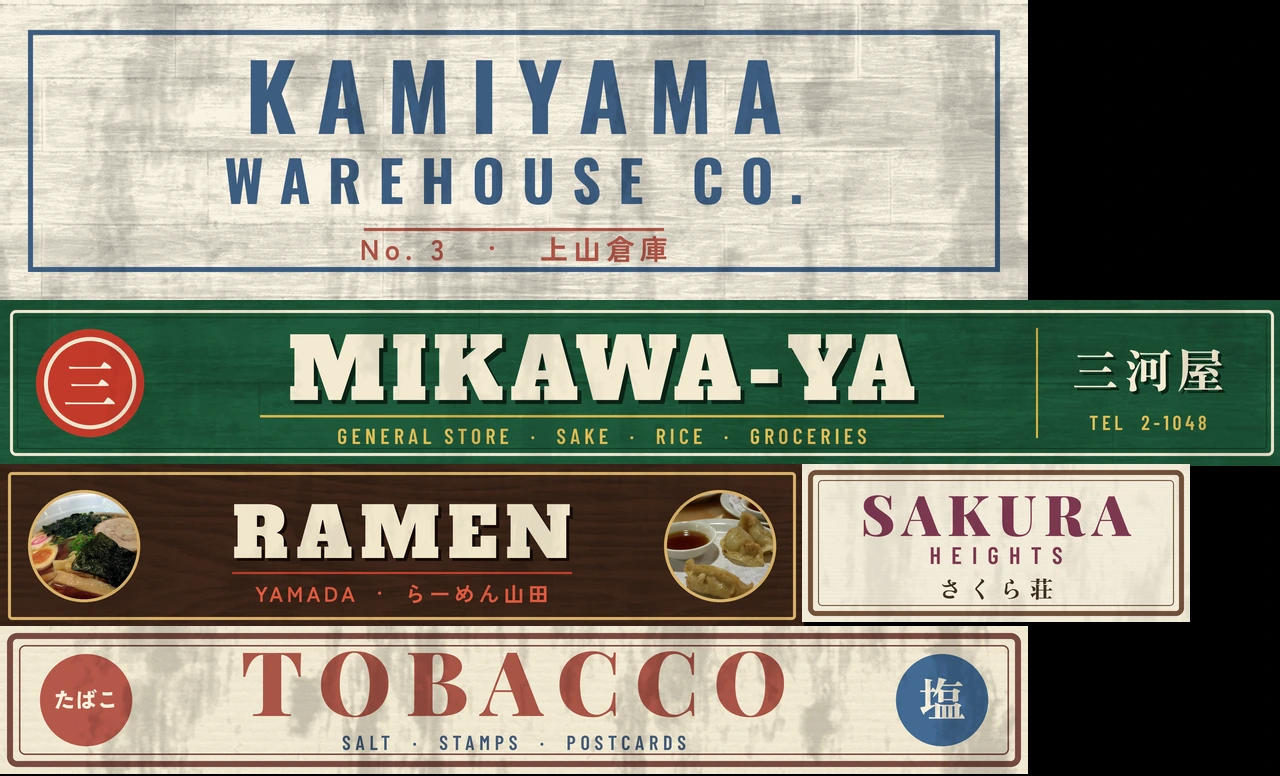
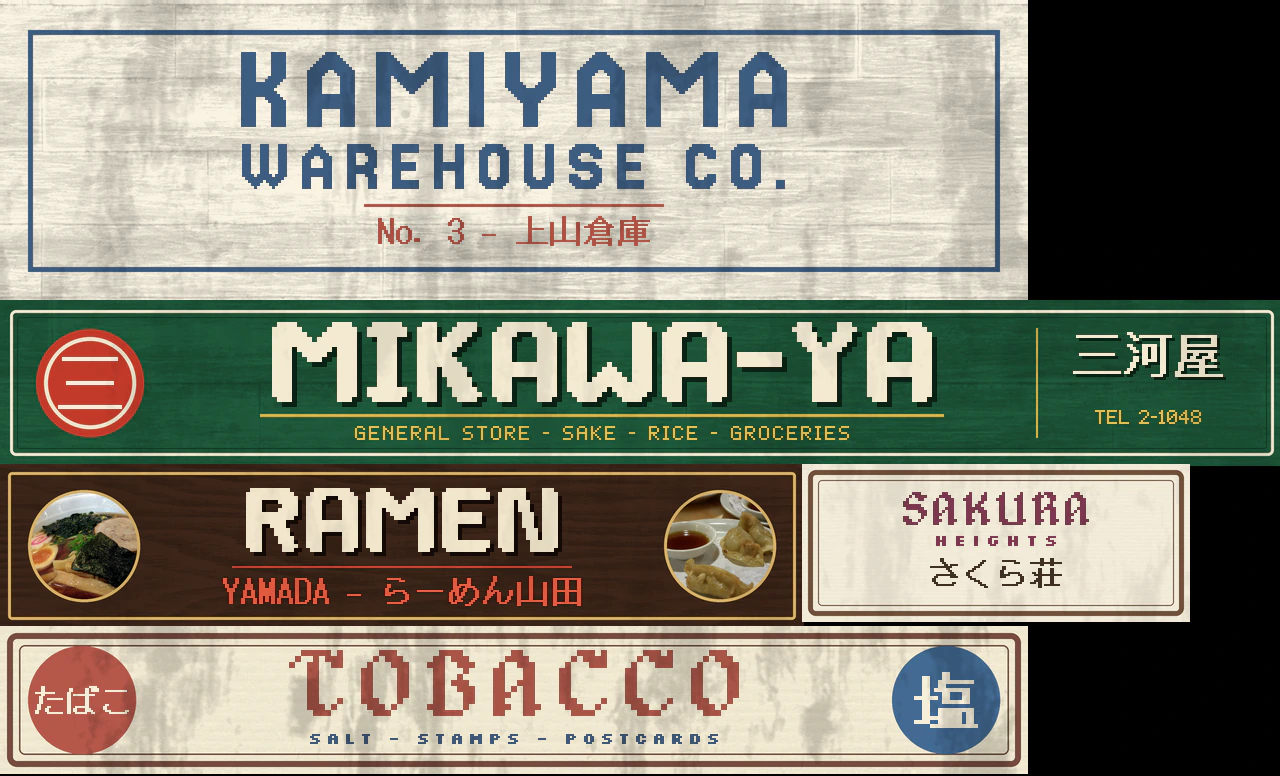
CLAUDE.md: fonts must be high-res pixel art, never 5x7/low-res; WIP agent work
Claude-Session: https://claude.ai/code/session_01N97Lkr91fG9tbEuHne6nWv

diff --git a/src/data/props/home.js b/src/data/props/home.js
@@ -97,4 +97,6 @@ export default {
   hm_kotatsu: M('kotatsu2', 0.42),
   hm_stool_red: M('stool_retro', 0.68),
   hm_payphone: M('payphone_red2', 0.45),
+  // (loaded with the prop library, so Mikawa-san's fedora is on his head from the first frame: src/places/mikawaya/oldman.js)
+  hm_fedora: M('wear_fedora', 0.13),
 };

diff --git a/src/cosmetics/wear.js b/src/cosmetics/wear.js
@@ -43,7 +43,7 @@ export function wearPiece(fit) {
   };
   const now = assetNow(id);
   if (now) place(now);
-  else asset(id).then(place).catch(() => {});
+  else asset(id).then(place).catch((e) => console.warn('wear piece failed:', id, e?.message || e));
   return g;
 }
 

diff --git a/tools/bake-signs.py b/tools/bake-signs.py
@@ -1,8 +1,10 @@
 #!/usr/bin/env python3
-"""bake-signs.py: the lane's shop signs, set like real sign-painters' work: proper sign faces (OFL, tools/printkit.py
-FONTS), kerned pairs plus open tracking for caps, optical centring, a painted keyline and hard drop shade only (no
-glow, no gradient), on real board surfaces (ambientCG CC0 scans in the art cache) with light, real wear. Drawn 4x and
-reduced once, so the letters are clean at the texel grid (no jaggies, no blur), at ~200-400 px per metre of sign.
+"""bake-signs.py: the lane's shop signs, laid out like real sign-painters' work in pixel type only (tools/pixprint.py
+faces: GG Display, Alagard, Jersey, Silkscreen, the 5x7 font, DotGothic16 for kana and kanji), set on the texture
+grid at whole-number scales (one font pixel = a block of texels, nearest only: no blur, no smoothing), with a painted
+keyline and hard pixel drop shade only (no glow, no gradient), on real board surfaces (ambientCG CC0 scans in the art
+cache) with light, real wear. The boards are drawn 4x and reduced once, then the type is laid, then the wear goes over
+both. ~200-400 px per metre of sign.
   sign:mikawaya   Mikawa-ya's fascia (src/world/CornerShop.js, 6.15 x 0.78 m)
   sign:tobacco    the closed tobacco shop's faded board (src/world/Neighbours.js, 3.9 x 0.55 m)
   sign:warehouse  the warehouse lettering by the park (src/world/Park.js, 4.6 x 1.34 m)
@@ -18,6 +20,8 @@ import numpy as np
 from PIL import Image, ImageDraw, ImageFilter
 from printkit import font, CACHE, ROOT, cover, printed
 import paperkit as PK
+import pixprint as PX
+PX.FACES.setdefault('dot', ('dotgothic16/DotGothic16-Regular.ttf', 16))
 _bp = importlib.util.spec_from_file_location('bake_print', os.path.join(os.path.dirname(os.path.abspath(__file__)), 'bake-print.py'))
 BP = importlib.util.module_from_spec(_bp); _bp.loader.exec_module(BP)
 
@@ -35,6 +39,7 @@ class Sign:
         self.w, self.h = w, h
         self.im = Image.new('RGBA', (w * SS, h * SS), hexc(base))
         self.d = ImageDraw.Draw(self.im)
+        self.late = []
 
     def surface(self, name, tint, k=1.0, scale=1.0):
         """Multiply a real surface scan (lightness only, normalised) over the face: paint over planks, enamel over steel."""
@@ -64,45 +69,19 @@ class Sign:
         self.im.paste(ph, (int((cx - r) * SS), int((cy - r) * SS)), m)
         if ring: self.circle(cx, cy, r, ring[0], line=ring[1])
 
-    def text(self, s, face, cap, x, y, fill, track=0.0, anchor='c', shade=None, sx=1.0, vert=False):
-        """Set s with its cap height = cap px, baseline at y (final px). Pair kerning from the font (raqm), plus
-        track (em fraction) of open letter-spacing; anchor 'l' / 'c' / 'r' on x. shade = (colour, dx, dy): a hard
-        sign-painter's drop shade. sx: horizontal scale (condensing for a long name). Returns the set width."""
-        # size the font so its cap height (from 'H') matches cap
-        probe = font(face, 200); bb = probe.getbbox('H'); px = 200 * cap * SS / max(1, bb[3] - bb[1])
-        f = font(face, px)
-        if vert:
-            y0 = y * SS
-            for ch in s:
-                gb = f.getbbox(ch)
-                g = Image.new('RGBA', (gb[2] - gb[0] + 4, gb[3] - gb[1] + 4), (0, 0, 0, 0))
-                ImageDraw.Draw(g).text((-gb[0] + 2, -gb[1] + 2), ch, font=f, fill=hexc(fill))
-                self.im.alpha_composite(g, (int(x * SS - g.width / 2), int(y0)))
-                y0 += g.height + track * px
-            return 0
-        adv = []
-        for i, ch in enumerate(s):
-            nxt = s[i + 1] if i + 1 < len(s) else ''
-            a = (f.getlength(ch + nxt) - f.getlength(nxt)) if nxt else f.getlength(ch)
-            adv.append(a + (track * px if nxt else 0))
-        tw = sum(adv)
-        asc = f.getmetrics()[0]
-        layer = Image.new('RGBA', (int(tw + 8 * SS), int(asc + px)), (0, 0, 0, 0))
-        dl = ImageDraw.Draw(layer)
-        cx = 4 * SS
-        for ch, a in zip(s, adv): dl.text((cx, 0), ch, font=f, fill=(255, 255, 255, 255)); cx += a
-        if sx != 1.0: layer = layer.resize((max(1, int(layer.width * sx)), layer.height), Image.LANCZOS); tw *= sx
-        ox = {'l': x * SS, 'c': x * SS - tw / 2, 'r': x * SS - tw}[anchor] - 4 * SS * sx
-        oy = y * SS - asc
-        mask = layer.split()[3]
-        for col, dx, dy in ([shade] if shade else []) + [(fill, 0, 0)]:
-            solid = Image.new('RGBA', layer.size, hexc(col)); solid.putalpha(mask)
-            self.im.alpha_composite(solid, (int(ox + dx * SS), int(oy + dy * SS)))
-        return tw / SS
+    def text(self, s, x, y, face, scale, fill, anchor='mt', **kw):
+        """Pixel type laid after the board is reduced: (x, y) final px of the ink box anchor; kw: track, shadow, outline."""
+        self.late.append((s, x, y, face, scale, fill, anchor, kw))
+
+    def _type(self, im):
+        P = PX.Sheet(self.w, self.h, 0xffffff); P.im = im; P.d = ImageDraw.Draw(im)
+        for s, x, y, face, scale, fill, anchor, kw in self.late:
+            P.text(s, x, y, face, scale, fill, anchor=anchor, **kw)
+        return im
 
     def wear(self, k=0.25, seed=0, fade=0.0, grime='SurfaceImperfections009'):
         """Real-scan grime and a little sun fade (the paint's own age), then the one reduction to final size."""
-        im = self.im.resize((self.w, self.h), Image.LANCZOS)
+        im = self._type(self.im.convert('RGB').resize((self.w, self.h), Image.LANCZOS)).convert('RGBA')
         a = np.asarray(im, np.float32) / 255
         if fade: a[..., :3] = np.clip(PK.fade_cmy(a[..., :3], fade), 0, 1)
         if k:
@@ -124,15 +103,15 @@ def mikawaya():
     S.rect(15, 15, W - 30, H - 30, 0x123a26, r=3, line=1.2)
     # the shop's crest: a red disc with a cream ring and 三 (three bars: Mikawa)
     S.circle(88, H / 2, 54, 0xc33a2a); S.circle(88, H / 2, 46, 0xefe6cf, line=4)
-    S.text('三', 'oldmincho', 40, 88, H / 2 + 22, 0xf6eedb, anchor='c')
-    # the name: a slab-serif wordmark, open tracking, hard drop shade
-    S.text('MIKAWA-YA', 'alfa', 66, 600, 98, 0xf3ead2, track=0.075, anchor='c', shade=(0x0b2216, 4, 4))
-    S.rect(258, 113, 684, 2.5, 0xd9b44a)
-    S.text('GENERAL STORE  ·  SAKE  ·  RICE  ·  GROCERIES', 'barlows', 15, 600, 142, 0xe2bd55, track=0.2, anchor='c')
+    S.text('三', 88, H // 2, 'dot', 4, 0xf6eedb, anchor='mm', bold=1)
+    # the name: GG Display at 5x, a hard pixel drop shade
+    S.text('MIKAWA-YA', 600, 20, 'ggd', 5, 0xf3ead2, shadow=(1, 1, 0x0b2216))
+    S.rect(258, 112, 684, 3, 0xd9b44a)
+    S.text('GENERAL STORE - SAKE - RICE - GROCERIES', 600, 124, 'b5', 2, 0xe2bd55, track=1)
     # right panel: the name in kanji and the phone
     S.rect(1034, 26, 2, H - 52, 0xd9b44a)
-    S.text('三河屋', 'oldmincho', 34, 1146, 86, 0xf3ead2, track=0.12, anchor='c', shade=(0x0b2216, 3, 3))
-    S.text('TEL  2-1048', 'barlows', 14, 1146, 128, 0xe2bd55, track=0.18, anchor='c')
+    S.text('三河屋', 1146, 30, 'dot', 3, 0xf3ead2, shadow=(1, 1, 0x0b2216), bold=1)
+    S.text('TEL 2-1048', 1146, 108, 'b5', 2, 0xe2bd55)
     return S.wear(k=0.12, seed=3, grime='SurfaceImperfections003')
 
 
@@ -143,10 +122,10 @@ def tobacco():
     S.surface('Paper004', None, k=0.2)
     S.rect(5, 5, W - 10, H - 10, 0x6a2a20, r=10, line=6)
     S.rect(17, 17, W - 34, H - 34, 0x6a2a20, r=6, line=1.5)
-    S.circle(84, H / 2, 46, 0xb02a22); S.text('たばこ', 'kaku', 15, 84, H / 2 + 8, 0xf4ead2, anchor='c')
-    S.circle(W - 84, H / 2, 46, 0x2a4f8a); S.text('塩', 'oldmincho', 34, W - 84, H / 2 + 17, 0xf4ead2, anchor='c')
-    S.text('TOBACCO', 'serif', 64, W / 2, 88, 0xa22a20, track=0.16, anchor='c')
-    S.text('SALT  ·  STAMPS  ·  POSTCARDS', 'barlows', 14, W / 2, 122, 0x2a3f6a, track=0.24, anchor='c')
+    S.circle(80, H / 2, 54, 0xb02a22); S.text('たばこ', 80, H // 2, 'dot', 2, 0xf4ead2, anchor='mm', bold=1)
+    S.circle(W - 80, H / 2, 54, 0x2a4f8a); S.text('塩', W - 80, H // 2, 'dot', 4, 0xf4ead2, anchor='mm', bold=1)
+    S.text('TOBACCO', W // 2, 22, 'ala', 6, 0xa22a20, track=2)
+    S.text('SALT - STAMPS - POSTCARDS', W // 2, 106, 'silkb', 2, 0x2a3f6a, track=2)
     return S.wear(k=0.3, seed=11, fade=0.34, grime='SurfaceImperfections003')
 
 
@@ -156,10 +135,10 @@ def warehouse():
     S = Sign(W, H, 0xe6dfcd)
     S.surface('Planks012', None, k=0.35, scale=0.8)
     S.rect(26, 28, W - 52, H - 56, 0x2c4a78, line=5)
-    S.text('KAMIYAMA', 'oswald', 74, W / 2, 132, 0x2c4a78, track=0.22, anchor='c')
-    S.text('WAREHOUSE CO.', 'oswald', 46, W / 2, 202, 0x2c4a78, track=0.3, anchor='c')
-    S.rect(W / 2 - 150, 226, 300, 3, 0xa8352a)
-    S.text('No. 3   ·   上山倉庫', 'kakub', 20, W / 2, 258, 0xa8352a, track=0.18, anchor='c')
+    S.text('KAMIYAMA', W // 2, 50, 'jersey25', 3, 0x2c4a78, track=3)
+    S.text('WAREHOUSE CO.', W // 2, 142, 'jersey15', 3, 0x2c4a78, track=3)
+    S.rect(W / 2 - 150, 202, 300, 3, 0xa8352a)
+    S.text('No. 3 - 上山倉庫', W // 2, 214, 'dot', 2, 0xa8352a, bold=1)
     return S.wear(k=0.25, seed=21, fade=0.25, grime='SurfaceImperfections003')
 
 
@@ -170,9 +149,9 @@ def apt():
     S.surface('Paper004', None, k=0.12)
     S.rect(4, 4, W - 8, H - 8, 0x6e4a32, r=8, line=5)
     S.rect(14, 14, W - 28, H - 28, 0x6e4a32, r=4, line=1.2)
-    S.text('SAKURA', 'serif', 40, W / 2, 70, 0x7a2e4a, track=0.14, anchor='c')
-    S.text('HEIGHTS', 'barlows', 17, W / 2, 98, 0x7a2e4a, track=0.42, anchor='c')
-    S.text('さくら荘', 'oldmincho', 17, W / 2, 132, 0x3a2a1c, track=0.3, anchor='c')
+    S.text('SAKURA', W // 2, 26, 'ala', 3, 0x7a2e4a, track=1)
+    S.text('HEIGHTS', W // 2, 70, 'silkb', 2, 0x7a2e4a, track=3)
+    S.text('さくら荘', W // 2, 92, 'dot', 2, 0x3a2a1c, bold=1)
     return S.wear(k=0.12, seed=31, fade=0.1, grime='SurfaceImperfections003')
 
 
@@ -184,9 +163,9 @@ def ramen():
     S.rect(6, 6, W - 12, H - 12, 0xd8b26a, r=4, line=3)
     S.photo(os.path.join(OI, '02866b5332267a21.jpg'), 82, H / 2, 56, ring=(0xd8b26a, 3))
     S.photo(os.path.join(OI, '5b1c17cb6d748fa0.jpg'), W - 82, H / 2, 56, ring=(0xd8b26a, 3))
-    S.text('RAMEN', 'alfa', 54, W / 2, 92, 0xf1e6cc, track=0.12, anchor='c', shade=(0x140a06, 3, 3))
-    S.rect(W / 2 - 170, 106, 340, 2, 0xc8402e)
-    S.text('YAMADA  ·  らーめん山田', 'kakub', 15, W / 2, 136, 0xe25a40, track=0.16, anchor='c')
+    S.text('RAMEN', W // 2, 22, 'ggd', 4, 0xf1e6cc, shadow=(1, 1, 0x140a06))
+    S.rect(W / 2 - 170, 100, 340, 2, 0xc8402e)
+    S.text('YAMADA - らーめん山田', W // 2, 110, 'dot', 2, 0xe25a40, bold=1)
     return S.wear(k=0.1, seed=41, grime='SurfaceImperfections003')
 
 
@@ -198,4 +177,7 @@ if __name__ == '__main__':
     if '--sheet' in sys.argv:
         p = sys.argv[sys.argv.index('--sheet') + 1]; out.convert('RGB').save(p); print('sheet', p, out.size)
     else:
-        BP.save_sheet('signs', out.convert('RGB'), idx, quality=92)
+        import json  # lossy WebP with smart chroma subsampling (the pixel type keeps its colour edges)
+        PX.save_webp(out.convert('RGB'), os.path.join(BP.OUT, 'signs.webp'), near=False, quality=92)
+        json.dump(idx, open(os.path.join(BP.REGIONS, 'signs.json'), 'w'), separators=(',', ':'))
+        print('signs', out.size, os.path.getsize(os.path.join(BP.OUT, 'signs.webp')) // 1024, 'KB')

diff --git a/CLAUDE.md b/CLAUDE.md
@@ -11,8 +11,9 @@ First-person gacha-shop sim (Three.js + Vite). Shōwa-era Japanese back lane, vo
 - **All particles are 2D pixel-art sprites** (hand-pixelled frames, nearest filtering, stepped animation). No soft
   round glows, no smooth gradients, no additive blobs.
 - 2D art is pixel art: no text effects (glows, gradients, bevels), no "AI-looking" slick posters, no circles-and-
-  sparkles filler. **Every font in the game is pixel art** (owner, latest): Alagard, Pixelify Sans, GG Display, the 5x7 bitmap font,
-  DotGothic16 for kana, or another OFL pixel font; on UI, signs, posters, flyers, notices, labels, subtitles, everywhere.
+  sparkles filler. **Every font in the game is pixel art AND high resolution** (owner, latest): Alagard, Pixelify Sans, GG Display,
+  DotGothic16 for kana, or another high-res OFL pixel font, drawn at native pixel size or clean integer multiples;
+  never a low-res font (no 5x7 / tiny bitmap fonts, no blown-up chunky glyphs); on UI, signs, posters, flyers, notices, labels, subtitles, everywhere.
   No smooth / vector / print fonts anywhere.
 - The pixel-art kit (public/img/pixelkit via src/ui/pixelkit.js; built by tools/pixelkit/build.py, hand-pixelled or
   pixelised Blender renders to the docs/ref/pixel refs) is the standard for coins, notes, banks, tickets, receipts,
@@ -88,7 +89,7 @@ First-person gacha-shop sim (Three.js + Vite). Shōwa-era Japanese back lane, vo
   renders and pixel-font text. ZERO 2D art drawn by us (no drawn props, patterns, wavy lines, stripes, screen tone,
   drawn water), no generic "AI" backgrounds, no hanging confetti / bunting / pennants.**
   **Posters and cards copy the owner's gashapon boards (scratchpad/ref_gacha) closely, ALL TEXT IN ENGLISH, ALL
-  TEXT IN PIXEL-ART FONTS** (Alagard, the 5x7 bitmap font, OFL pixel fonts), crisp at the pixel grid; only hard pixel
+  TEXT IN PIXEL-ART FONTS** (Alagard, Pixelify Sans, high-res OFL pixel fonts), crisp at the pixel grid; only hard pixel
   outlines and hard offset shadows, no glow, gradient, bevel or slick AI-style effects; every poster a unique layout.
   **Titles are 3D, hand-painted and interactive (owner, latest; overrides "flat" for titles only):** series names and
   big call-outs are chunky extruded blocks built from the glyphs of our own hand-pixelled display face GG Display
@@ -101,7 +102,7 @@ First-person gacha-shop sim (Three.js + Vite). Shōwa-era Japanese back lane, vo
   (tools/logo3d_themes.py: crab shell with a cream underside, turtle scutes, sushi toppings on rice, bath tiles, oiled
   wagasa paper with ribs, beetle carapace bands...), with small sculpted themed bits growing off the letters (claws,
   legs, flippers, drips, steam puffs, umbrella ribs, a skewer...); painted brushwork only, no CG gradients, chrome or
-  glow. Kickers are flat GG Display; small text (legend, warnings, barcode) stays the flat 5x7 font. Still no glow, gradient, chrome, Word-Art
+  glow. Kickers are flat GG Display; small text (legend, warnings, barcode) uses a high-res pixel font (never 5x7). Still no glow, gradient, chrome, Word-Art
   bevel or "AI" 3D text presets. Real public-domain / CC0 vintage posters are welcome (brands retouched out); the rest is designed to a
   graphic-designer standard with pixel fonts only (see the font rule), on real scanned paper
   (folds, fade, tape, wear). Typography stays flat (no glows, gradients, bevels). All names and brands are original
